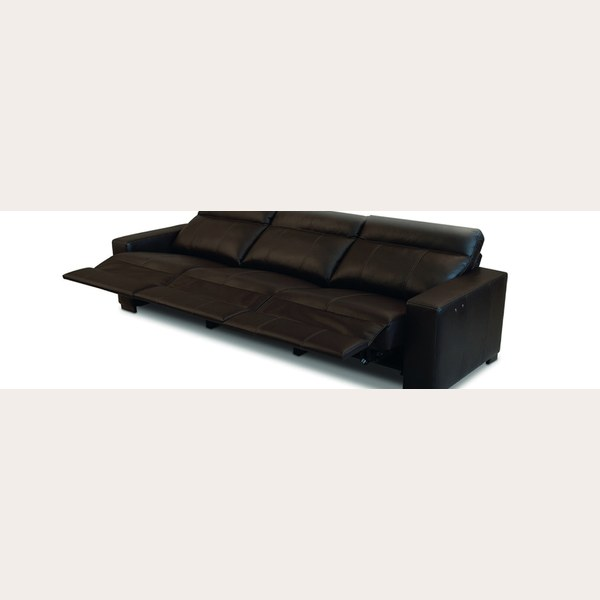
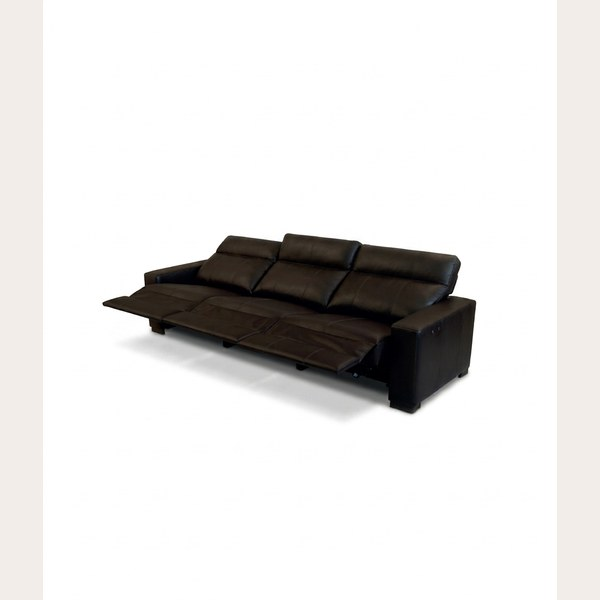
Fix: imagens laterais Haero/Bora/Poli + galeria sem corte e sem duplicatas
- Novas fotos laterais para Haero, Bora e Poli (imagens Gemini normalizadas 600x600)
- object-fit: contain na galeria do produto (elimina corte em imagens portrait)
- Deduplicação do array de imagens antes de montar os thumbnails

Changed region(s): [[0.09, 0.33, 0.87, 0.69]]

diff --git a/produto.html b/produto.html
@@ -836,7 +836,8 @@
     var thumb3d    = document.getElementById('thumb-3d');
     if (thumbsWrap && thumb3d) {
       thumbsWrap.innerHTML = '';
-      var imgs = (p.imgs && p.imgs.length) ? p.imgs : (firstImg ? [firstImg] : []);
+      var rawImgs = (p.imgs && p.imgs.length) ? p.imgs : (firstImg ? [firstImg] : []);
+      var imgs = rawImgs.filter(function (src, idx, arr) { return arr.indexOf(src) === idx; });
       imgs.forEach(function (src, i) {
         var div = document.createElement('div');
         div.className = 'gallery-thumb' + (i === 0 ? ' active' : '');

diff --git a/produto.css b/produto.css
@@ -58,7 +58,7 @@
 .product-gallery__main img {
   width: 100%;
   height: 100%;
-  object-fit: cover;
+  object-fit: contain;
   transition: transform .5s var(--ease);
   display: block;
 }
